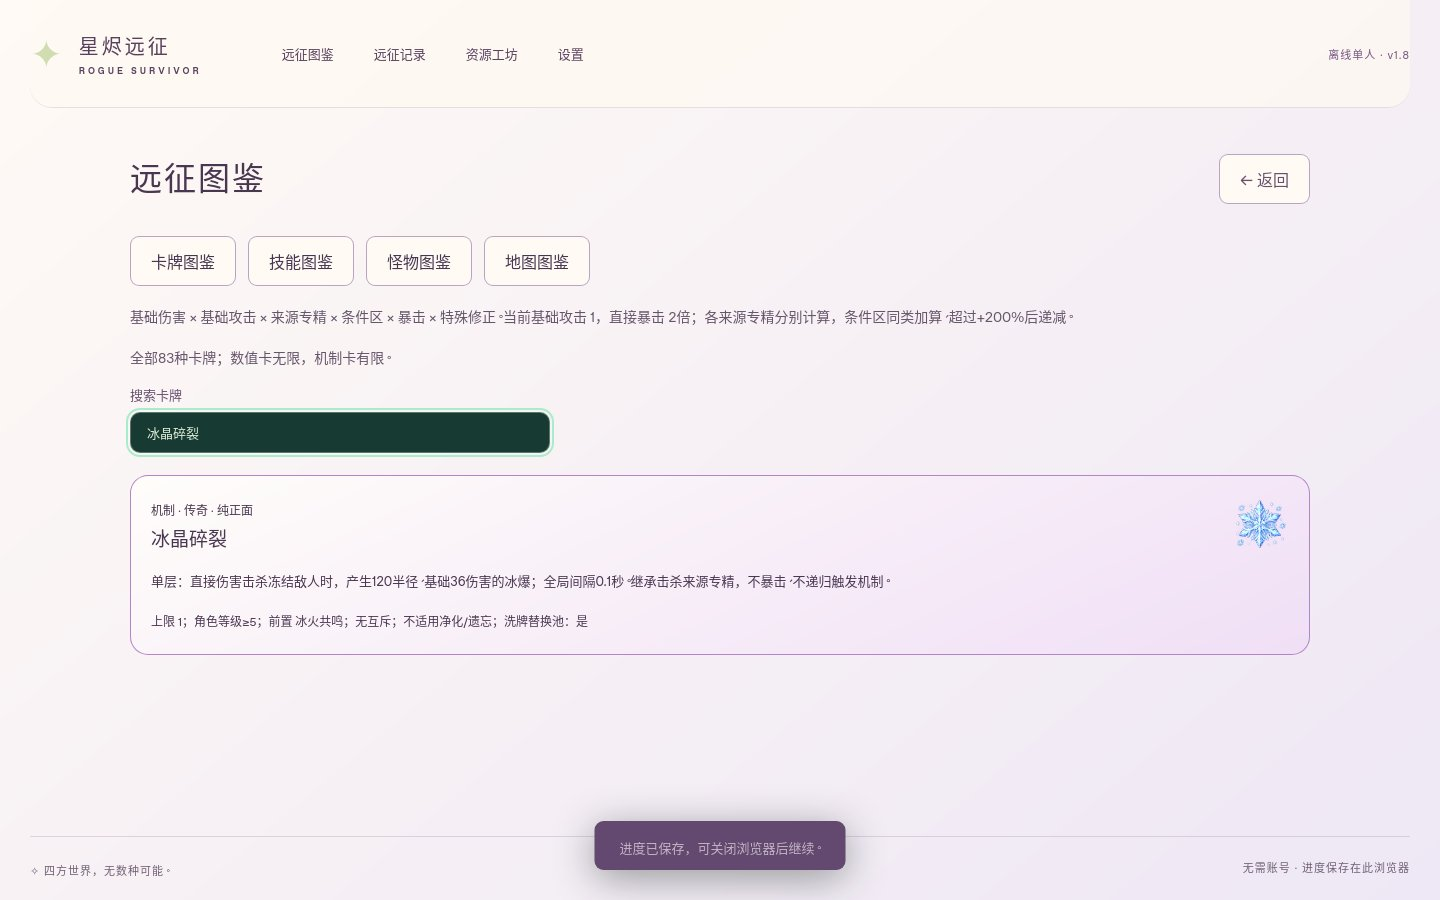
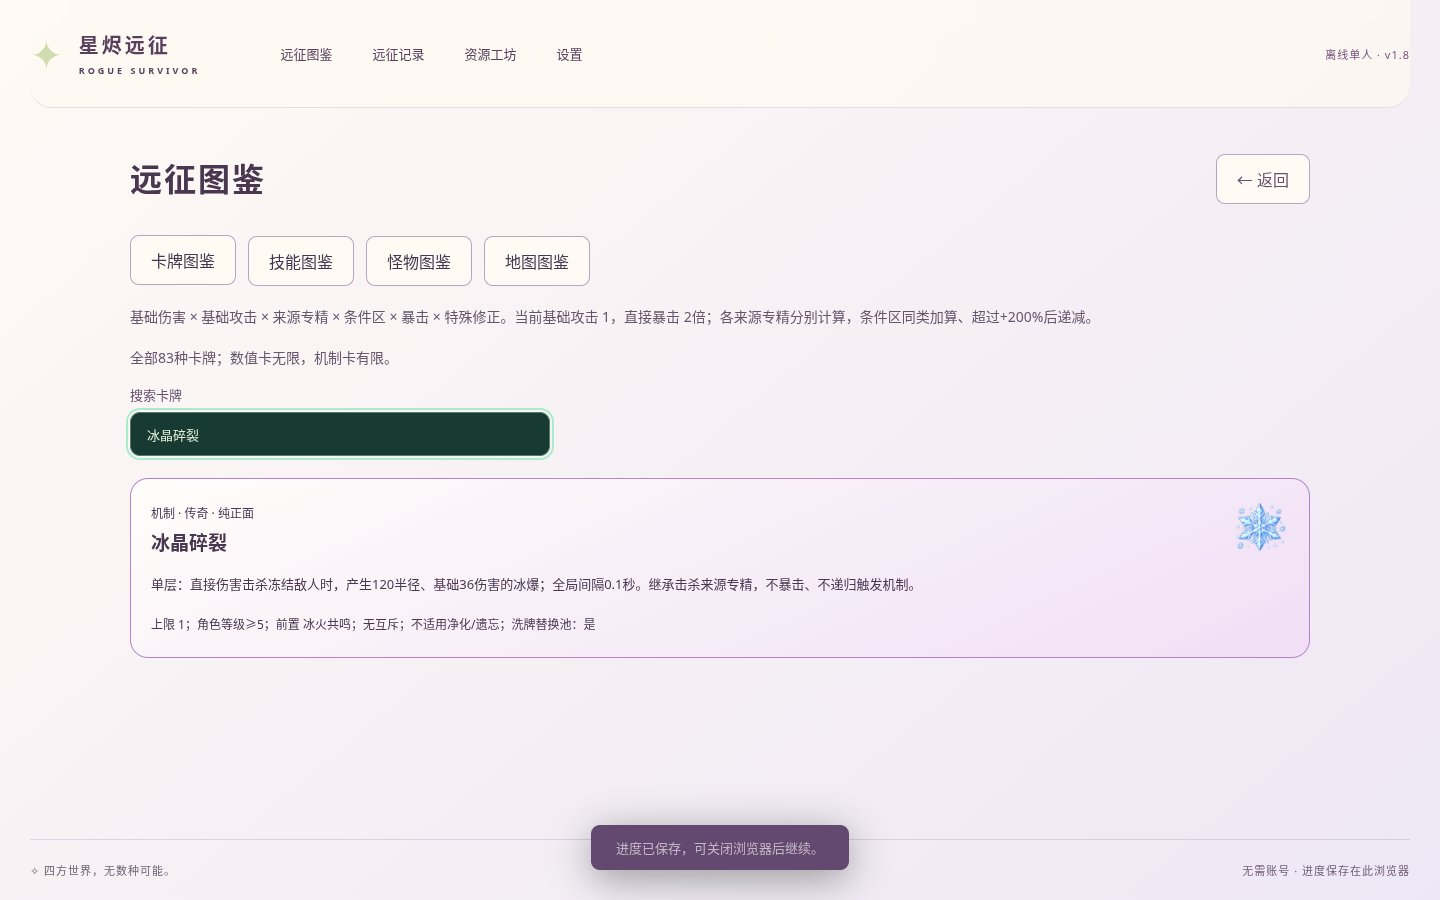
fix(rogue-survivor): bound resonance control and stabilize resource reload checks

diff --git a/projects/RogueSurvivor/tests/reforge.test.ts b/projects/RogueSurvivor/tests/reforge.test.ts
@@ -542,3 +542,40 @@ it("暴伤说明不会在缺少余烬循环时暗示燃烧已可暴击", () => {
   s.player.upgrades.ember_cycle = 1;
   expect(effectSummary(s, "crit_damage")).not.toContain("未解锁");
 });
+
+it("高频多箭的双生共鸣不会永久冻结Boss", () => {
+  const w = world();
+  cards(w, ["weapon_orbit", "twin_resonance"]);
+  const e = dummy(w, "warden");
+  let frozen = 0;
+  // Four impacts per 0.2s is within an evolved, forked, quickened bow's firing rate.
+  for (let frame = 0; frame < 200; frame++) {
+    w.s.time = frame * 0.02;
+    e.freeze = Math.max(0, e.freeze - 0.02);
+    if (frame % 10 === 0)
+      for (let arrow = 0; arrow < 4; arrow++) w.damage(e, 0.01, "bow", false);
+    if (e.freeze > 0) frozen += 0.02;
+  }
+  expect(frozen).toBeLessThanOrEqual(1);
+  expect(e.hp).toBeGreaterThan(0);
+});
+
+it("双生控制冷却随存档恢复，不会重复触发", () => {
+  const w = world();
+  cards(w, ["weapon_orbit", "twin_resonance"]);
+  const e = dummy(w, "warden");
+  for (let i = 0; i < 4; i++) w.damage(e, 0.01, "bow", false);
+  const saved = validateRun(w.s);
+  expect(saved.build!.twinReady).toBeCloseTo(P.twins.cooldown);
+  const resumed = new World(saved),
+    target = resumed.s.enemies[0];
+  target.freeze = 0;
+  resumed.s.time = 0.1;
+  for (let i = 0; i < 4; i++) resumed.damage(target, 0.01, "bow", false);
+  expect(target.freeze).toBe(0);
+});
+it("较早v5检查点缺少新增控制时钟时可安全补齐", () => {
+  const s = world().s;
+  delete (s.build as any).twinReady;
+  expect(validateRun(s).build!.twinReady).toBe(0);
+});

diff --git a/projects/RogueSurvivor/src/data/cards/cores.ts b/projects/RogueSurvivor/src/data/cards/cores.ts
@@ -8,7 +8,7 @@ export const CORE_PARAMS = {
   chain: { chance: 0.25, range: 180, count: 3, fraction: 0.6, cooldown: 0.65 },
   judgment: { threshold: 0.5, bonus: 0.6 },
   focus: { step: 0.04, hits: 10 },
-  twins: { every: 4, freeze: 0.7 },
+  twins: { every: 4, freeze: 0.7, bossFreeze: 0.15, cooldown: 0.8 },
   steam: { damage: 28, radius: 85, cooldown: 0.8 },
   comet: { duration: 4, bonus: 0.45, cost: 0.05 },
 };
@@ -29,7 +29,7 @@ export const CORE_CARDS: Upgrade[] = [
     rarity: 2,
     max: 1,
     requires: "burn",
-    desc: `燃烧每次结算独立按角色暴击率判定，基础暴击倍率${P.burnCrit}，另享暴伤卡的${G.burnCritShare * 100}%增量（燃烧暴击最高${G.burnCritLimit}倍）；不触发直接命中机制。`,
+    desc: `燃烧每次结算独立按角色暴击率判定，基础暴击倍率${P.burnCrit}，另享暴伤卡递减后、直接暴击上限截断前贡献的${G.burnCritShare * 100}%（燃烧暴击最高${G.burnCritLimit}倍）；不触发直接命中机制。`,
   },
   {
     id: "blood_hunt",
@@ -83,7 +83,7 @@ export const CORE_CARDS: Upgrade[] = [
     max: 1,
     requires: "weapon_bow",
     allOf: ["weapon_orbit"],
-    desc: `追星弓每${P.twins.every}次直接命中，将目标冻结${P.twins.freeze}秒，供月环及冻结流联动；衍生伤害不计数。`,
+    desc: `追星弓每${P.twins.every}次直接命中，将目标冻结${P.twins.freeze}秒（Boss为${P.twins.bossFreeze}秒），供月环及冻结流联动；全局触发间隔${P.twins.cooldown}秒，衍生伤害不计数。`,
   },
   {
     id: "frostfire",

diff --git a/projects/RogueSurvivor/src/core/mechanics.ts b/projects/RogueSurvivor/src/core/mechanics.ts
@@ -1,3 +1,4 @@
+import { ENEMIES } from "../data/enemies";
 import type { Combat } from "./combat";
 import type { Enemy, Vec } from "./types";
 import type { DamageContext } from "./damage";
@@ -7,7 +8,8 @@ import { distance, random } from "./math";
 
 function ready(
   c: Combat,
-  key: "fractureReady" | "orbitReady" | "chainReady" | "steamReady",
+  key:
+    "fractureReady" | "orbitReady" | "chainReady" | "steamReady" | "twinReady",
   interval: number,
 ) {
   const b = buildState(c.s);
@@ -61,8 +63,11 @@ export function afterHit(
   }
   if (u.twin_resonance && source === "bow" && e.hp > 0) {
     b.twinHits = (b.twinHits + 1) % P.twins.every;
-    if (!b.twinHits) {
-      e.freeze = Math.max(e.freeze, P.twins.freeze);
+    if (!b.twinHits && ready(c, "twinReady", P.twins.cooldown)) {
+      e.freeze = Math.max(
+        e.freeze,
+        ENEMIES[e.kind].boss ? P.twins.bossFreeze : P.twins.freeze,
+      );
       e.slow = Math.max(e.slow, 1.2);
       c.effect(e, "ice", 32);
     }

diff --git a/projects/RogueSurvivor/tests/reforge.spec.ts b/projects/RogueSurvivor/tests/reforge.spec.ts
@@ -74,6 +74,11 @@ test("二级到三级武器进化、图鉴与新的乘区说明", async ({ page 
   await expect(page.locator(".codex-card").first()).toContainText("最高3级");
   await page.getByRole("button", { name: "卡牌图鉴", exact: true }).click();
   await expect(page.locator(".damage-rules")).toContainText("条件区");
+  await page.locator("#card-search").fill("双生共鸣");
+  await expect(page.locator(".codex-card:visible")).toContainText(
+    "Boss为0.15秒",
+  );
+  await expect(page.locator(".codex-card:visible")).toContainText("间隔0.8秒");
   await page.locator("#card-search").fill("冰晶碎裂");
   await expect(page.locator(".codex-card:visible")).toHaveCount(1);
   await expect(page.locator(".codex-card:visible")).toContainText("不递归");

diff --git a/projects/RogueSurvivor/src/core/buildState.ts b/projects/RogueSurvivor/src/core/buildState.ts
@@ -5,6 +5,7 @@ export interface BuildState {
   focusHits: number;
   hunt: boolean;
   twinHits: number;
+  twinReady: number;
   fractureReady: number;
   orbitReady: number;
   chainReady: number;
@@ -20,12 +21,14 @@ export interface BuildState {
   compensation: number;
 }
 export function buildState(s: Run): BuildState {
+  if (s.build) s.build.twinReady ??= 0;
   return (s.build ||= {
     schema: 1,
     focusId: 0,
     focusHits: 0,
     hunt: false,
     twinHits: 0,
+    twinReady: 0,
     fractureReady: 0,
     orbitReady: 0,
     chainReady: 0,
@@ -41,6 +44,7 @@ export function clearMechanics(s: Run) {
   b.focusHits = 0;
   b.hunt = false;
   b.twinHits = 0;
+  b.twinReady = 0;
   b.fractureReady = 0;
   b.orbitReady = 0;
   b.chainReady = 0;

diff --git a/projects/RogueSurvivor/tools/build-check.ts b/projects/RogueSurvivor/tools/build-check.ts
@@ -219,7 +219,7 @@ for (const style of Object.keys(styles))
     }
 const out = {
   method:
-    "八流派、相等合法卡牌预算、四随机种子、十秒固定靶场；人群靶可重生，Boss靶固定生命；非通关率。沿用真实攻击/暴击/持续/核心机制，敌方不攻击；生存面板不等于真实生存率。",
+    "八流派、相等合法卡牌预算、四随机种子、十秒固定靶场；人群靶可重生，Boss为单个40000生命循环靶（同靶ID复原），衡量持续输出上限；非通关率。沿用真实攻击/暴击/持续/核心机制，敌方不攻击；生存面板不等于真实生存率。",
   summary,
   rows,
 };

diff --git a/projects/RogueSurvivor/src/services/storage.ts b/projects/RogueSurvivor/src/services/storage.ts
@@ -786,6 +786,7 @@ export function validateRun(input: unknown): Run {
     );
     assert(
       [
+        ...(b.twinReady === undefined ? [] : [b.twinReady]),
         b.fractureReady,
         b.orbitReady,
         b.chainReady,

diff --git a/projects/RogueSurvivor/V1.8.md b/projects/RogueSurvivor/V1.8.md
@@ -23,7 +23,7 @@
 - 基础攻击区：全伤害卡、角色基础、契约、领悟和边界溢出共同计算；领悟贡献 `0.32×ln(1+层数)` 参与基础攻击递减，消除原先无条件额外乘算。
 - 来源专精区：同一武器/技能的加成加算后递减；独行之道的 `0.3/武器数` 加在该区，不额外开乘区。
 - 条件区：冻结/减速、燃烧、Boss、低生命、连续命中、闪避窗口等贡献同区相加，超过+200%后对数递减。条件不满足时不生效。
-- 暴击：普通基础2倍；新增星芒锐化每层+0.3，额外贡献超过2后对数递减、总倍率最多6。燃烧须持有余烬循环才可独立暴击，基础1.4倍并继承30%有效暴伤增量，最多2.8倍。
+- 暴击：普通基础2倍；新增星芒锐化每层+0.3，额外贡献超过2后对数递减、总倍率最多6。燃烧须持有余烬循环才可独立暴击，基础1.4倍并继承暴伤卡递减后、直接暴击上限截断前贡献的30%，最多2.8倍。
 - 特殊修正：临时地图状态、方向防御、岩甲减伤。护盾吸收在最终伤害之后结算。
 
 弹道保存原始伤害，到命中时统一应用乘区一次；燃烧保存原始强度，不把已放大的命中伤害再次作为输入。范围、主动、分裂伤害复用同一入口；分裂弹保持单代。核心衍生伤害单独标记 `proc`，不暴击、不触发直接命中核心、不附加燃烧，避免递归；统计单独归因到核心。单次输出最高1e12，拒绝非有限值。
@@ -36,12 +36,12 @@
 |---|---|
 |冰晶碎裂|直接击杀冻结目标，120半径、基础36冰爆；全局0.1秒冷却，继承来源专精、不递归。需冰火共鸣、角色5级。|
 |余烬循环|燃烧每次结算可按角色暴击率独立暴击，独立倍率；不触发直接命中核心。需燃烧。|
-|血色追猎|直接暴击击杀后保留1次追猎；下一次可暴击的直接伤害必暴，倍率额外+0.25（仍受6倍上限）。需暴击强化、角色5级。|
+|血色追猎|直接暴击击杀后保留1次追猎；下一次可暴击的直接伤害必暴，倍率额外+0.25（仍受6倍上限）。需鹰眼、角色5级。|
 |月环共振|月环直接命中冻结敌人，100半径、基础22冲击；全局0.7秒冷却。需月环与冰火共鸣。|
 |星火连锁|火焰范围攻击每0.65秒至多判定1次25%概率，向180距离内本次爆炸之外的未访问目标传递，最多3节点，每节点原始伤害×0.6。需烬火杖，与群星聚焦互斥。|
-|终末裁决|目标低于50%生命时，剩余生命越低，条件区额外贡献越高，上限+60个百分点。需处决、角色8级。|
+|终末裁决|目标低于50%生命时，剩余生命越低，条件区额外贡献越高，上限+60个百分点。需残星裁决、角色8级。|
 |群星聚焦|同一目标每次后续直接命中条件区+4个百分点，最多10次；换目标重置。角色5级，与星火连锁互斥。|
-|双生共鸣|每4次弓箭直接命中，冻结存活目标0.7秒。需追星弓和月环。|
+|双生共鸣|每4次弓箭直接命中，冻结普通目标0.7秒、Boss目标0.15秒，全局触发间隔0.8秒。需追星弓和月环。|
 |霜焰蒸腾|直接命中同时冻结和燃烧目标，85半径、基础28蒸汽爆发；全局0.8秒冷却。需燃烧与冰火共鸣。|
 |琉璃彗星|闪避消耗当前生命5%（不致死），4秒内直接伤害条件区+45个百分点；不改闪避判定。与磐石体魄互斥，标为混合风险卡，不进洗牌纯正面奖励池。|
 
@@ -72,7 +72,7 @@
 
 ## 构筑与对局模拟
 
-八流派，同等12/24/40张合法卡预算，各4种子，10秒真实武器/技能/持续伤害靶场。人群为24个800生命循环重生靶，Boss为40000生命靶；靶子不移动和攻击，故只比较输出覆盖，不把它当真人胜率或真实生存时间。24张阶段均值：
+八流派，同等12/24/40张合法卡预算，各4种子，10秒真实武器/技能/持续伤害靶场。人群为24个800生命循环重生靶，Boss为单个40000生命循环靶；同靶ID死亡复原，保留焦点以估算持续输出上限；靶子不移动和攻击，故只比较输出覆盖，不把它当真人胜率或真实生存时间。24张阶段均值：
 
 |方向|人群DPS|Boss DPS|最大生命|每秒回复|承伤倍率|
 |---|---:|---:|---:|---:|---:|
@@ -80,7 +80,7 @@
 |五武器|3727|905|110|0.15|1|
 |暴击|4898|3796|110|0.15|1|
 |燃烧|3400|1111|110|0.15|1|
-|冻结|14213|2523|110|0.15|1|
+|冻结|14213|2473|110|0.15|1|
 |范围|7454|787|110|0.15|1|
 |生存|3046|262|320|3.3|0.7|
 |混合|7097|1688|110|0.15|1|
@@ -122,6 +122,10 @@ npm run docs:cards
 
 验证采用Linux云端Node24.19.0（CI使用Node22）、Chromium软件渲染；不以云端FPS降低敌人或画质。原有测试保留，只同步武器新上限、明确数值及版本断言。新增覆盖乘区、全部核心、合法性、无限边界、旧版夹具、补偿幂等、洗牌清理与移动端核心卡片。
 
-本地335项单元、TypeScript、生产构建、依赖审计（0已知漏洞）及根53项隐私回归通过。既有86项生产Chromium首次85通过、1项仍断言旧70卡；同步为83卡并单独复验。新增4项生产Chromium覆盖三级进化、核心实际触发、迁移幂等及手机长卡片。本地WebKit15项通过、1项因无CDP接口跳过（Chromium已通过该真实双触点用例）；为云端用户目录补齐官方Debian共享库后运行实际WebKit，不等于真机Safari。完整90项、原生Windows与远程WebKit由PR CI再次执行，最终状态见对应Actions。短密集渲染样本记录18 FPS、151敌人、166弹道（云端软件渲染，不代表玩家设备性能），没有据此缩减规模。未进行真机iPhone/Android测试、真人通关平衡测试、原生Windows安装包测试或超长时间压力测试。网页前端构建不代表原生Windows客户端。
+本地338项单元、TypeScript、生产构建、依赖审计（0已知漏洞）及根53项隐私回归通过。既有86项生产Chromium首次85通过、1项仍断言旧70卡；同步为83卡并单独复验。新增4项生产Chromium覆盖三级进化、核心实际触发、迁移幂等及手机长卡片。本地WebKit15项通过、1项因无CDP接口跳过（Chromium已通过该真实双触点用例）；为云端用户目录补齐官方Debian共享库后运行实际WebKit，不等于真机Safari。完整90项、原生Windows与远程WebKit由PR CI再次执行，最终状态见对应Actions。短密集渲染样本记录18 FPS、151敌人、166弹道（云端软件渲染，不代表玩家设备性能），没有据此缩减规模。未进行真机iPhone/Android测试、真人通关平衡测试、原生Windows安装包测试或超长时间压力测试。网页前端构建不代表原生Windows客户端。
 
 首轮远程CI：Linux完整90项、WebKit15通过/1专属接口跳过、两平台335单元及构建/经济/流派检查通过；Windows浏览器89通过，密集场景已完成截图与性能读取（3 FPS、226敌人、1101弹幕）后遇45秒时限。保留全部负载和断言，测试增加截图后的正常暂停与可见性校验，使关闭浏览器前停止持续高负载渲染；仅该用例预算扩至90秒。完整CI随修复重新执行，结果以PR最新运行而非首轮为准。未改游戏难度或渲染质量。
+
+组合边界复核：未经限制的双生共鸣在每0.2秒四箭命中时，4秒内可冻结Boss整整4秒。先加入会失败的回归，再将该新卡限制为全局0.8秒触发间隔、普通目标0.7秒/Boss0.15秒冻结；未修改Boss本体抗性或任何敌人数值。控制计数与冷却保存，缺少新时钟的较早v5检查点默认0，命运洗牌重置该时钟。新增测试要求上述四秒窗口内Boss被此卡冻结不超过1秒，并检查读档后不绕过冷却。构筑数据随修改重新生成。
+
+第二轮Windows：密集渲染用例通过，另一项双资源覆盖/两次读档用例出现测试级45秒超时（没有报告属性断言不符），89/90通过。当前环境的代理拒绝下载Actions追踪附件，未声称读过该追踪；根据公开日志和多次加载流程，在每次实战纹理校验后通过正常UI暂停再导航/关闭，仅该多次加载用例预算改为90秒，保留两项纹理精确断言并新增暂停界面断言。最终检查以含控制边界修复的新头为准。

diff --git a/projects/RogueSurvivor/CARDS-v1.8.md b/projects/RogueSurvivor/CARDS-v1.8.md
@@ -67,13 +67,13 @@
 |命运馈赠|功能|纯正面|∞|获得3次独立刷新机会。消耗本次抽卡，不立即刷新；刷新机会可累积。|
 |遗忘药剂|功能|纯正面|3|移除最近获得且可安全撤销的1级属性强化，重新选择本次升级（排除药剂和重铸）。没有可撤销属性时不会出现。|
 |冰晶碎裂|机制|纯正面|1|直接伤害击杀冻结敌人时，产生120半径、基础36伤害的冰爆；全局间隔0.1秒。继承击杀来源专精，不暴击、不递归触发机制。|
-|余烬循环|机制|纯正面|1|燃烧每次结算独立按角色暴击率判定，基础暴击倍率1.4，另享暴伤卡的30%增量（燃烧暴击最高2.8倍）；不触发直接命中机制。|
+|余烬循环|机制|纯正面|1|燃烧每次结算独立按角色暴击率判定，基础暴击倍率1.4，另享暴伤卡递减后、直接暴击上限截断前贡献的30%（燃烧暴击最高2.8倍）；不触发直接命中机制。|
 |血色追猎|机制|纯正面|1|直接暴击击杀后，下一次直接命中必定暴击，暴击倍率额外+0.25；最多保留1次，燃烧和衍生伤害不消耗。|
 |月环共振|机制|纯正面|1|月环直接命中冻结敌人时释放100半径、基础22伤害冲击；全局间隔0.7秒。继承月环专精，不暴击、不递归。|
 |星火连锁|机制|纯正面|1|火焰范围攻击有25%概率向180距离内未被本次爆炸覆盖的敌人传递，每次基础伤害乘0.6，最多3次；全局每0.65秒至多判定一次。连锁不暴击、不再触发连锁或附加燃烧。|
 |终末裁决|机制|纯正面|1|敌人生命低于50%时，条件增伤区随剩余生命降低，最多+60个百分点。与其他条件增伤加算。|
 |群星聚焦|机制|纯正面|1|连续直接命中同一敌人，每次后续命中条件区+4个百分点，最多10次；切换目标重置。持续与衍生伤害不计数。|
-|双生共鸣|机制|纯正面|1|追星弓每4次直接命中，将目标冻结0.7秒，供月环及冻结流联动；衍生伤害不计数。|
+|双生共鸣|机制|纯正面|1|追星弓每4次直接命中，将目标冻结0.7秒（Boss为0.15秒），供月环及冻结流联动；全局触发间隔0.8秒，衍生伤害不计数。|
 |霜焰蒸腾|机制|纯正面|1|直接命中同时冻结且燃烧的敌人，产生85半径、基础28伤害蒸汽爆发；全局间隔0.8秒。继承来源专精，不暴击、不递归。|
 |琉璃彗星|契约|混合|1|每次闪避消耗当前生命5%（不致死；生命不足1时不扣血），随后4秒内直接伤害的条件区+45个百分点。不改变闪避距离、冷却或无敌。|
 |星芒锐化|属性|纯正面|∞|每层直接暴击倍率+0.3，基础2倍；超过额外+2后对数递减，最高6倍，有效溢出贡献转化基础攻击。|
